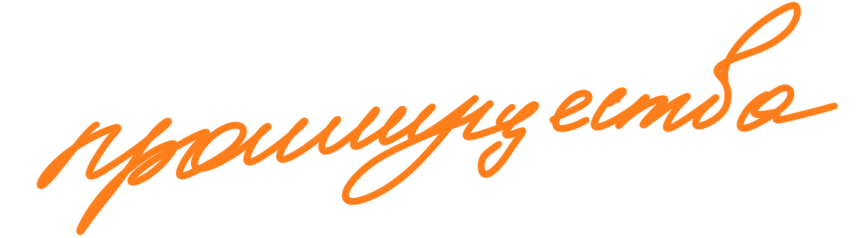
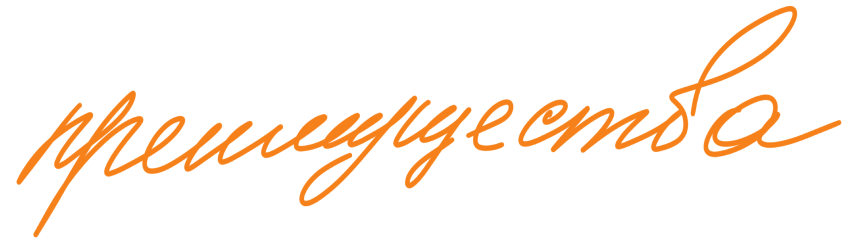
FTM-26: editions after design review

Changed region(s): [[0.0, 0.0, 1.0, 1.0], [0.0304, 0.8235, 0.0607, 0.9412]]

diff --git a/frontend/src/pages/home/components/home/components/mock/benefits.ts b/frontend/src/pages/home/components/home/components/mock/benefits.ts
@@ -9,13 +9,13 @@ import type {
 export const MOCK_BENEFITS: Array<IBenefitCardImg | IBenefitCardText> = [
     {
         theme: 'dark',
-        title: 'Индивидуальный подход',
-        description: 'Тренер разрабатывает программу тренировок, основанную на Ваших целях, уровне фитнеса и физическом состоянии. Тренер разрабатывает программу тренировок'
+        title: 'Адаптация программы',
+        description: 'Я\u00a0адаптирую программу в\u00a0зависимости от\u00a0прогресса клиента или его самочувствия, чтобы максимизировать эффективность и\u00a0безопасность занятий'
     },
     {
         theme: 'light',
-        title: 'Мотивация и поддержка',
-        description: 'Тренер разрабатывает программу тренировок, основанную на Ваших целях, уровне фитнеса и физическом состоянии'
+        title: 'Мотивация и\u00a0поддержка',
+        description: 'Я\u00a0стараюсь вдохновлять и\u00a0поддерживать своих клиентов в\u00a0процессе тренировок, чтобы они могли преодолеть трудности и\u00a0не\u00a0сдаваться'
     },
     {
         theme: 'img',
@@ -29,12 +29,12 @@ export const MOCK_BENEFITS: Array<IBenefitCardImg | IBenefitCardText> = [
     },
     {
         theme: 'light',
-        title: 'Регулярная оценка прогресса',
-        description: 'Тренер разрабатывает программу тренировок, основанную на Ваших целях, уровне фитнеса и физическом состоянии'
+        title: 'Разнообразие тренировок',
+        description: 'Я\u00a0постоянно внедряю новые упражнения и\u00a0методики, чтобы занятия были интересными и\u00a0разнообразными, что помогает удерживать клиентов от\u00a0скуки'
     },
     {
         theme: 'dark',
-        title: 'Разнообразие тренировок',
-        description: 'Тренер разрабатывает программу тренировок, основанную на Ваших целях, уровне фитнеса и физическом состоянии'
+        title: 'Обратная связь',
+        description: 'Я\u00a0предоставляю регулярную обратную связь о\u00a0прогрессе клиента, что помогает им\u00a0видеть результаты и\u00a0чувствовать удовлетворение от\u00a0своих усилий'
     }
 ] as const;

diff --git a/frontend/src/components/flip-card-primary/components/flip-card-primary/flip-card-primary.ts b/frontend/src/components/flip-card-primary/components/flip-card-primary/flip-card-primary.ts
@@ -17,6 +17,7 @@ export class FlipCardPrimary extends InitComponent {
     render = ({
         theme,
         title,
+        link,
         img,
         services,
         icon
@@ -33,21 +34,29 @@ export class FlipCardPrimary extends InitComponent {
 
             const frontSide = card.querySelector('.flip-card-primary__front') as HTMLDivElement;
             const frontSideTitle = frontSide.querySelector('.flip-card-primary__title') as HTMLHeadingElement;
+            const frontSideTitleText = frontSideTitle.querySelector('.flip-card-primary__title-text') as HTMLSpanElement;
+            const frontSideLink = frontSideTitle.querySelector('.flip-card-primary__title-link') as HTMLAnchorElement;
             const frontSideImg = frontSide.querySelector('.flip-card-primary__img')?.querySelector('img') as HTMLImageElement;
             const frontSideServices = frontSide.querySelector('.flip-card-primary__services-list') as HTMLUListElement;
 
             const backSide = card.querySelector('.flip-card-primary__back') as HTMLDivElement;
             const backSideTitle = backSide.querySelector('.flip-card-primary__title-back') as HTMLHeadingElement;
+            const backSideTitleText = backSideTitle.querySelector('.flip-card-primary__title-back-text') as HTMLSpanElement;
+            const backSideLink = backSideTitle.querySelector('.flip-card-primary__title-back-link') as HTMLAnchorElement;
             const backSideServices = backSide.querySelector('.flip-card-primary__price-list') as HTMLUListElement;
 
             card.classList.add(`flip-card-primary_theme_${theme}`);
 
-            frontSideTitle.textContent = title;
+            frontSideTitleText.textContent = title;
+            frontSideLink.textContent = link!.text;
+            frontSideLink.href = link!.href;
             frontSideImg.src = img;
             frontSideImg.alt = title;
             frontSideServices.append(this.renderFrontSideServices(services));
 
-            backSideTitle.textContent = title;
+            backSideTitleText.textContent = title;
+            backSideLink.textContent = link!.text;
+            backSideLink.href = link!.href;
             backSideServices.append(this.renderBackSideServices(services, theme));
 
             this.hideIcon(frontSide, icon);

diff --git a/frontend/src/pages/home/components/home/components/mock/workout.ts b/frontend/src/pages/home/components/home/components/mock/workout.ts
@@ -8,12 +8,12 @@ export const MOCK_WORKOUT: IFlipCard[] = [
     {
         type: 'secondary',
         theme: 'calm',
-        title: 'Онлайн сопровождение',
-        details: 'Уровень подготовки любой',
+        title: 'Онлайн-сопровождение',
+        details: 'Из любой точки мира',
         img: imgMary3,
         services: [
             {
-                title: 'Онлайн сопровождение',
+                title: 'Онлайн-сопровождение',
                 price: 10000
             }
         ],
@@ -22,7 +22,11 @@ export const MOCK_WORKOUT: IFlipCard[] = [
     {
         type: 'primary',
         theme: 'brand',
-        title: 'Сплит тренировки\n(2 человека)',
+        title: 'Сплит-тренировки (2\u00a0человека) в\u00a0',
+        link: {
+            text: 'A-FITNESS',
+            href: 'https://spb.afitness.ru/devyatkino/'
+        },
         img: imgMary2,
         services: [
             {
@@ -40,7 +44,11 @@ export const MOCK_WORKOUT: IFlipCard[] = [
     {
         type: 'primary',
         theme: 'calm',
-        title: 'Персональные тренировки\n(в зале)',
+        title: 'Персональные тренировки в\u00a0',
+        link: {
+            text: 'A-FITNESS',
+            href: 'https://spb.afitness.ru/devyatkino/'
+        },
         img: imgMary1,
         services: [
             {

diff --git a/frontend/src/components/flip-card-primary/components/flip-card-primary/flip-card-primary.scss b/frontend/src/components/flip-card-primary/components/flip-card-primary/flip-card-primary.scss
@@ -31,11 +31,6 @@
                 opacity: 0.66;
             }
 
-            #{$this}__services-list {
-                color: var(--color-white);
-                opacity: 0.66;
-            }
-
             #{$this}__price-list {
                 color: var(--color-secondary-bg-600);
             }
@@ -51,10 +46,6 @@
 
             #{$this}__title-back {
                 color: var(--color-secondary-bg-300);
-            }
-
-            #{$this}__services-list {
-                color: var(--color-primary-accent-100);
             }
 
             #{$this}__price-list {
@@ -149,10 +140,6 @@
     &__icon {
         grid-area: icon;
         justify-self: flex-end;
-    }
-
-    &__price-list {
-        margin-top: var(--spacing-400);
     }
 
     &__price-list-item {

diff --git a/frontend/src/pages/home/components/home/components/mock/about.ts b/frontend/src/pages/home/components/home/components/mock/about.ts
@@ -4,6 +4,7 @@ import MARY4 from 'assets/images/mary-stairs.jpg';
 import MARY5 from 'assets/images/mary-power.jpg';
 import TOUR1 from 'assets/images/tour-1.jpg';
 import TOUR2 from 'assets/images/tour-2.jpg';
+import TOUR3 from 'assets/images/tour-3.jpg';
 
 import type { ISectionAbout } from '../section-about/interfaces';
 
@@ -35,7 +36,8 @@ export const MOCK_ABOUT: ISectionAbout = {
         MARY1,
         TOUR1,
         MARY2,
-        TOUR2
+        TOUR2,
+        TOUR3
     ],
     img1: MARY4,
     img2: MARY5

diff --git a/frontend/src/components/section/components/section/components/section-title/section-title.scss b/frontend/src/components/section/components/section/components/section-title/section-title.scss
@@ -26,9 +26,9 @@
             &::before {
                 content: "";
                 position: absolute;
-                right: 0;
-                bottom: -5px;
-                width: 428px;
+                right: -25px;
+                bottom: -17px;
+                width: 432px;
                 height: 118px;
                 background: center / cover no-repeat
                     url("./assets/images/signature-benefits.png");

diff --git a/frontend/src/types/flip-card.ts b/frontend/src/types/flip-card.ts
@@ -2,6 +2,10 @@ export interface IFlipCard {
     type: 'primary' | 'secondary';
     theme: 'calm' | 'brand';
     title: string;
+    link?: {
+        text: string;
+        href: string;
+    };
     details?: string;
     img: string;
     services: Array<{

diff --git a/frontend/src/modules/slider/slider.ts b/frontend/src/modules/slider/slider.ts
@@ -25,6 +25,7 @@ export class Slider {
         new Swiper('.slider', {
             spaceBetween: 16,
             loop: true,
+            cssMode: true,
             modules: [Autoplay, Navigation],
             autoplay: {
                 delay: 2500

diff --git a/frontend/src/ui/outline-button/outline-button.scss b/frontend/src/ui/outline-button/outline-button.scss
@@ -7,7 +7,7 @@
     column-gap: 10px;
     justify-content: center;
     align-items: center;
-    padding: 13px 12px 9px;
+    padding: 11px 12px 9px;
     border-radius: var(--radius-500);
     user-select: none;
 

diff --git a/frontend/src/ui/button/button.scss b/frontend/src/ui/button/button.scss
@@ -8,7 +8,7 @@
     display: flex;
     justify-content: center;
     align-items: center;
-    padding: 10px 32px 12px;
+    padding: 11px 32px;
     border-radius: var(--radius-500);
     user-select: none;
 

diff --git a/frontend/src/components/flip-card-secondary/components/flip-card-secondary/flip-card-secondary.scss b/frontend/src/components/flip-card-secondary/components/flip-card-secondary/flip-card-secondary.scss
@@ -98,7 +98,7 @@
     &__details {
         grid-area: details;
         margin-top: auto;
-        color: var(--color-secondary-bg-500);
+        text-transform: uppercase;
     }
 
     &__icon {
